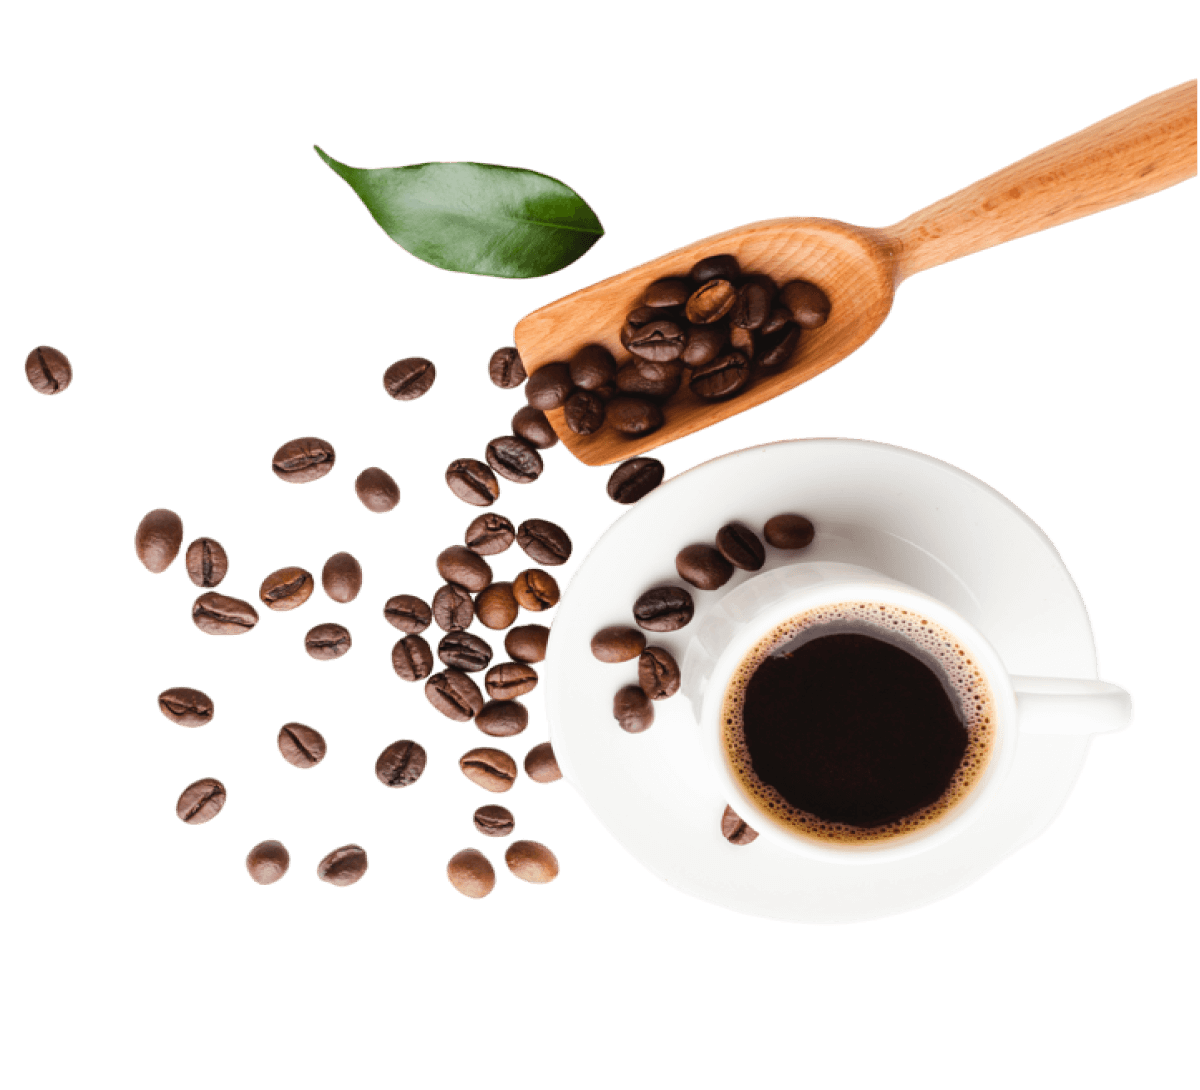
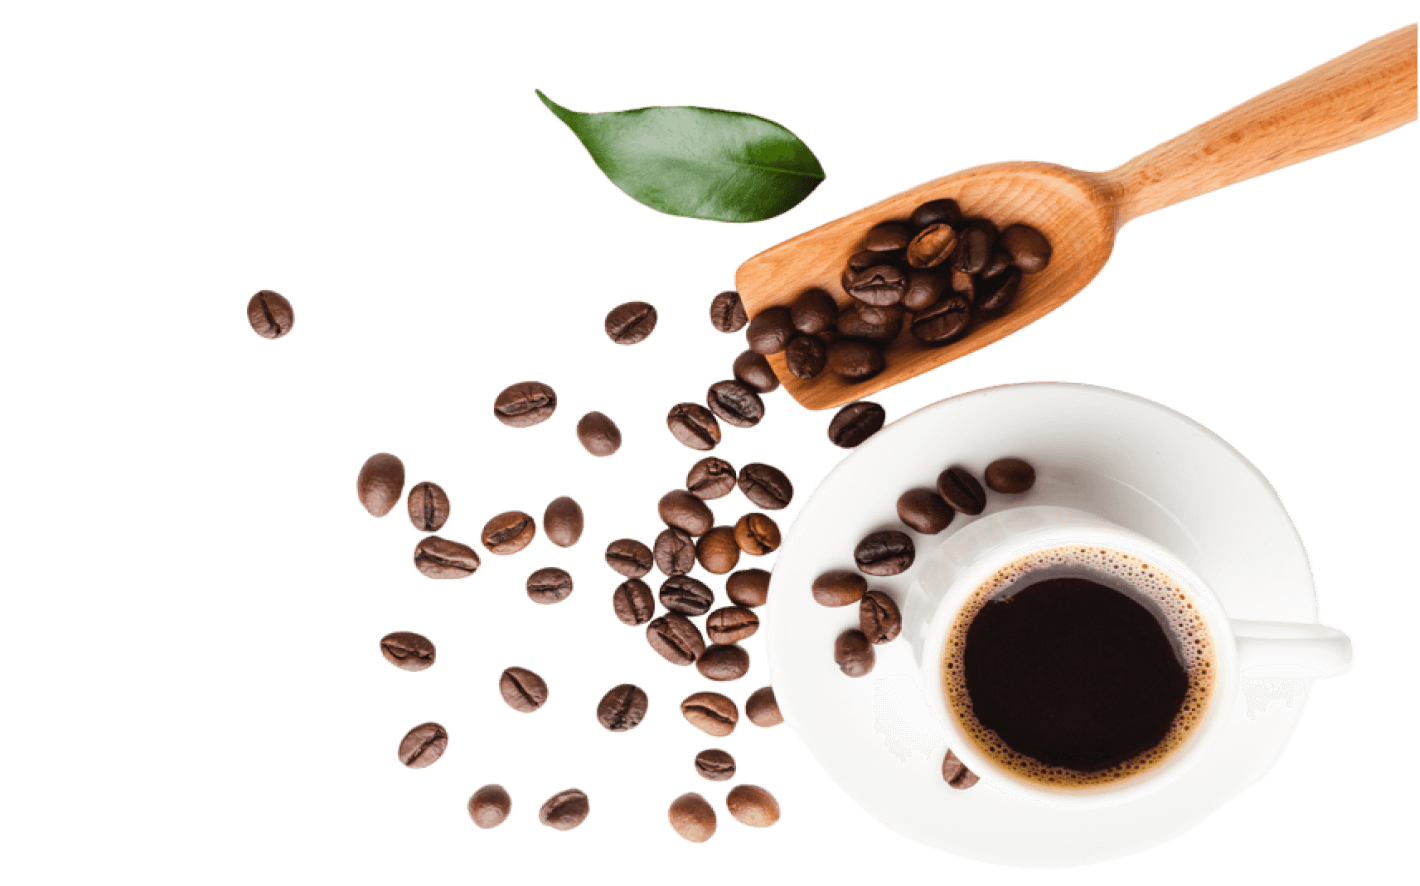
changed imgs

diff --git a/src/html/partials/sections/about-us.html b/src/html/partials/sections/about-us.html
@@ -170,11 +170,48 @@
 
       <picture class="about-us__picture-coffee-dec">
         <source
+        srcset="
+          ./assets/images/about-us/mobile/coffee.webp    1x,
+          ./assets/images/about-us/mobile/coffee@2x.webp 2x
+        "
+        type="image/webp"
+        media="(max-width: 767px)"
+      />
+
+      <source
+        srcset="
+          ./assets/images/about-us/mobile/coffee.png    1x,
+          ./assets/images/about-us/mobile/coffee@2x.png 2x
+        "
+        type="image/png"
+        media="(max-width: 767px)"
+      />
+
+        <source
+        srcset="
+          ./assets/images/about-us/tablet/coffee.webp    1x,
+          ./assets/images/about-us/tablet/coffee@2x.webp 2x
+        "
+        type="image/webp"
+        media="(min-width: 768px) and (max-width: 1279px)"
+      />
+
+      <source
+        srcset="
+          ./assets/images/about-us/tablet/coffee.png    1x,
+          ./assets/images/about-us/tablet/coffee@2x.png 2x
+        "
+        type="image/png"
+        media="(min-width: 768px) and (max-width: 1279px)"
+      />
+
+        <source
           srcset="
             ./assets/images/about-us/desktop/coffee.webp    1x,
             ./assets/images/about-us/desktop/coffee@2x.webp 2x
           "
           type="image/webp"
+          media="(min-width: 1280px)"
         />
 
         <source
@@ -183,13 +220,14 @@
             ./assets/images/about-us/desktop/coffee@2x.png 2x
           "
           type="image/png"
+          media="(min-width: 1280px)"
         />
 
         <img
           src="./assets/images/about-us/desktop/coffee.png"
           alt="coffee"
-          width="600"
-          height="545"
+          width="710"
+          height="443"
           loading="lazy"
         />
       </picture>

diff --git a/src/assets/scss/layouts/about-us.scss b/src/assets/scss/layouts/about-us.scss
@@ -102,9 +102,9 @@
     }
 
     &__picture-coffee-dec {
-      max-width: 300px;
-      top: -24px;
-      right: -221px;
+      max-width: 284px;
+      top: 0px;
+      right: -196px;
     }
   }
 
@@ -124,7 +124,9 @@
     }
 
     &__picture-coffee-dec {
-      top: -45px;
+      max-width: 564px;
+      top: -150px;
+      right: -342px;
     }
   }
 
@@ -193,8 +195,8 @@
     }
 
     &__picture-coffee-dec {
-      top: -290px;
-      right: -443px;
+      top: -259px;
+      right: -442px;
     }
   }
 }

diff --git a/src/assets/scss/base/_common.scss b/src/assets/scss/base/_common.scss
@@ -12,7 +12,6 @@ body {
   font-family: var(--Roboto);
   color: var(--black-txt);
   background-color: var(--primary-bg);
-  overflow-x: hidden;
 }
 
 a {
@@ -113,4 +112,8 @@ button {
   text-align: center;
 
   color: var(--secondary-txt-cl);
+}
+
+.page {
+  overflow: hidden;
 }
